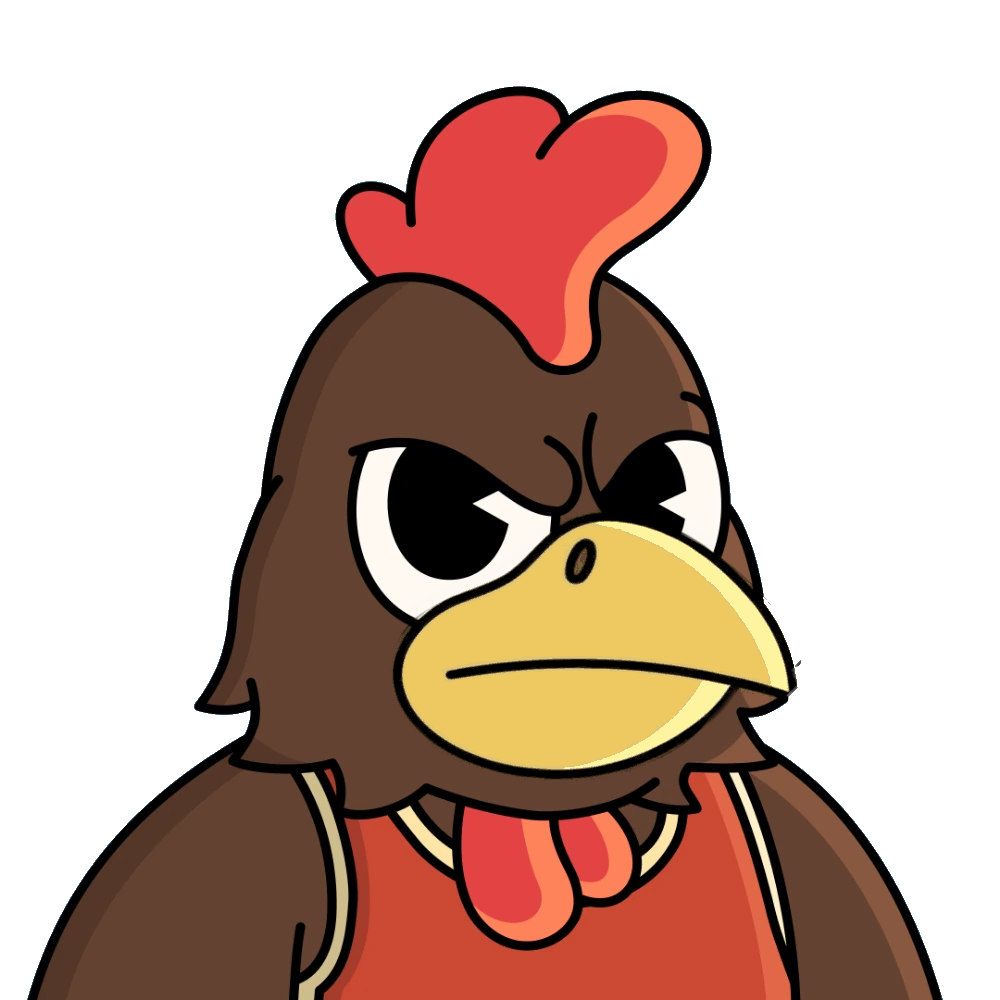
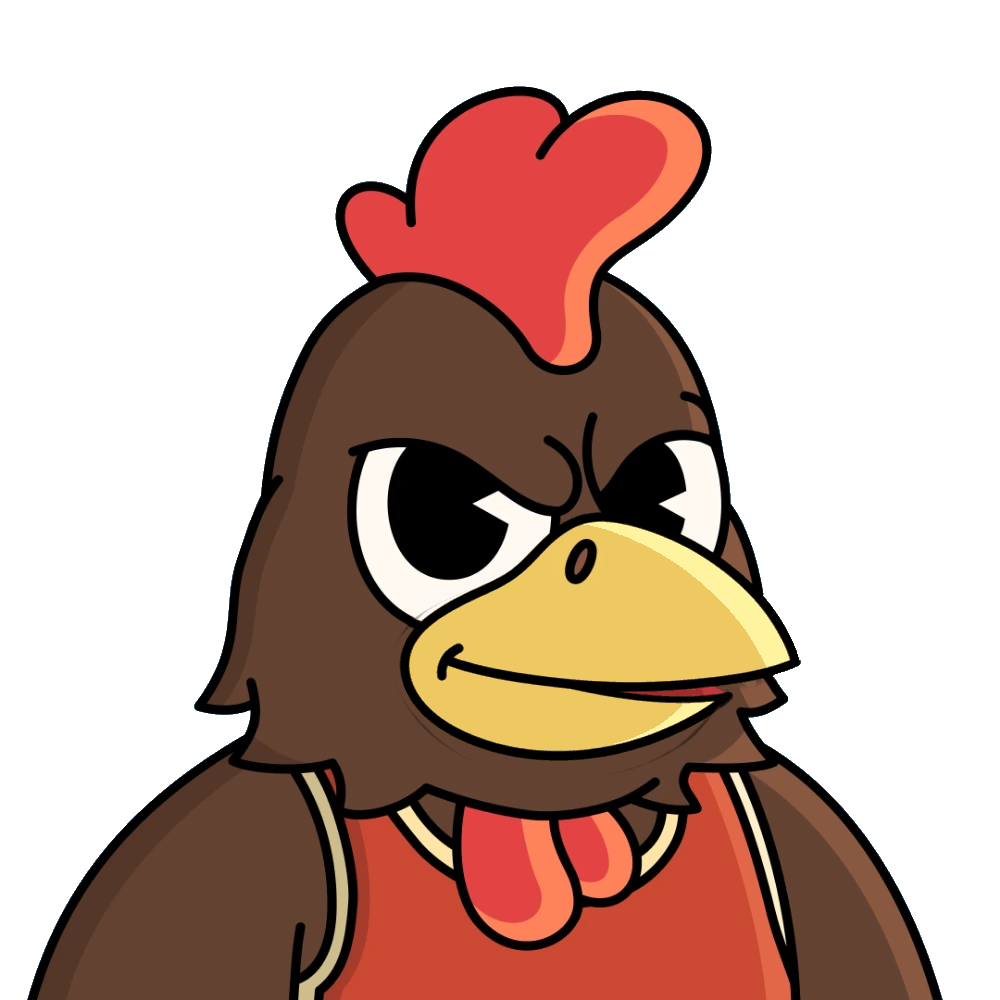
Cock F/V from GEAUX's Gemini edit (nostril kept the kit's own); tools/align_edit.py fits an edit or a sheet's pictures to a kit picture; kit_from_edits handles muzzle mouths (beaver), not used yet
Claude-Session: https://claude.ai/code/session_01AAjfD4JXrwKrGtAMJHTTVa

Changed region(s): [[0.372, 0.496, 0.806, 0.806], [0.496, 0.558, 0.527, 0.589]]

diff --git a/beta/index.html b/beta/index.html
@@ -490,7 +490,7 @@ header .credit b{font-weight:400}
 // ---------------------------------------------------------------------------
 const MP_VERSION = '0.10.14';
 const CODE = document.documentElement.dataset.code || '';   // (the beta copy keeps its own code in beta/; art and data are shared)
-const ART_V = '20261120-2100';   // bump when art changes, so phones never show old cached frames
+const ART_V = '20261120-2140';   // bump when art changes, so phones never show old cached frames
 const MP_MODEL = 'https://storage.googleapis.com/mediapipe-models/face_landmarker/face_landmarker/float16/1/face_landmarker.task';
 
 // Each Nibble: eye layers e0–e4 and ten whole-face mouth frames m0–m9, all lined up at 1000×1000.

diff --git a/index.html b/index.html
@@ -489,7 +489,7 @@ header .credit b{font-weight:400}
 // ---------------------------------------------------------------------------
 const MP_VERSION = '0.10.14';
 const CODE = document.documentElement.dataset.code || '';   // (the beta copy keeps its own code in beta/; art and data are shared)
-const ART_V = '20261120-2100';   // bump when art changes, so phones never show old cached frames
+const ART_V = '20261120-2140';   // bump when art changes, so phones never show old cached frames
 const MP_MODEL = 'https://storage.googleapis.com/mediapipe-models/face_landmarker/face_landmarker/float16/1/face_landmarker.task';
 
 // Each Nibble: eye layers e0–e4 and ten whole-face mouth frames m0–m9, all lined up at 1000×1000.

diff --git a/tools/align_edit.py b/tools/align_edit.py
@@ -1,0 +1,47 @@
+# Line an edited picture (or each picture of a sheet) up with a kit's own picture, for tools/kit_from_edits.py: the
+# image tool may redraw the character a little bigger, smaller or moved, so each one is fitted (scale, turn, shift)
+# to the kit picture over everything except the mouth, then saved at the kit's size on white.
+# Usage: python3 tools/align_edit.py <ref> <picture> <out_prefix> [rows cols]
+#   one picture -> <out_prefix>.png ; a sheet (rows x cols) -> <out_prefix>1.png ... in reading order
+import sys, numpy as np, cv2
+from PIL import Image
+
+ref, pic, out = sys.argv[1], sys.argv[2], sys.argv[3]
+rows, cols = (int(sys.argv[4]), int(sys.argv[5])) if len(sys.argv) > 5 else (1, 1)
+b = Image.open(f'faces/{ref}/base.webp').convert('RGBA'); w = Image.new('RGBA', b.size, (255, 255, 255, 255)); w.alpha_composite(b)
+base = np.array(w.convert('RGB')); N = base.shape[0]
+MOUTH = { '310':(400, 560, 860, 860), '929':(520, 540, 760, 800) }[ref]    # left out of the fit (it's what changed)
+gray = lambda a: cv2.GaussianBlur(cv2.cvtColor(a, cv2.COLOR_RGB2GRAY).astype(np.float32) / 255, (0, 0), 2)
+mask = np.ones((N, N), np.uint8); x0, y0, x1, y1 = MOUTH; mask[y0:y1, x0:x1] = 0
+
+im = np.array(Image.open(pic).convert('RGB'))
+def cells(a):   # split a sheet at its white gaps (else into equal parts)
+    if rows == cols == 1: return [a]
+    H, W = a.shape[:2]; white = a.min(-1) > 235
+    def cuts(prof, n, L):
+        out = []
+        for k in range(1, n):
+            c = int(L * k / n); lo, hi = max(0, c - L // (3 * n)), min(L, c + L // (3 * n))
+            seg = prof[lo:hi]; best = np.where(seg >= seg.max() - 0.002)[0]; out.append(lo + int(best.mean()))
+        return [0] + out + [L]
+    ry, cx = cuts(white.mean(1), rows, H), cuts(white.mean(0), cols, W)
+    return [a[ry[r]:ry[r + 1], cx[c]:cx[c + 1]] for r in range(rows) for c in range(cols)]
+
+for i, c in enumerate(cells(im), 1):
+    h, w_ = c.shape[:2]; s = max(h, w_)
+    sq = np.full((s, s, 3), 255, np.uint8); sq[(s - h) // 2:(s - h) // 2 + h, (s - w_) // 2:(s - w_) // 2 + w_] = c
+    sq = cv2.resize(sq, (N, N), interpolation=cv2.INTER_CUBIC if s < N else cv2.INTER_AREA)
+    # fit: a similarity (scale, small turn, shift), coarse to fine
+    warp = np.eye(2, 3, dtype=np.float32); best = None
+    for sc in np.linspace(0.85, 1.18, 12):     # (a rough start for the scale, then ECC settles it)
+        W0 = np.array([[sc, 0, (1 - sc) * N / 2], [0, sc, (1 - sc) * N / 2]], np.float32)
+        try:
+            cc, W1 = cv2.findTransformECC(gray(base), gray(sq), W0.copy(), cv2.MOTION_AFFINE, (cv2.TERM_CRITERIA_EPS | cv2.TERM_CRITERIA_COUNT, 200, 1e-6), mask, 5)
+        except cv2.error: continue
+        if best is None or cc > best[0]: best = (cc, W1)
+    cc, W1 = best
+    al = cv2.warpAffine(sq, W1, (N, N), flags=cv2.INTER_CUBIC | cv2.WARP_INVERSE_MAP, borderValue=(255, 255, 255))
+    name = f'{out}.png' if rows == cols == 1 else f'{out}{i}.png'
+    Image.fromarray(al).save(name)
+    d = np.abs(gray(base) - gray(al))[mask > 0].mean()
+    print(name, 'fit %.3f' % cc, 'diff outside mouth %.3f' % d, 'scale %.3f' % np.sqrt(abs(np.linalg.det(W1[:, :2]))))

diff --git a/tools/kit_from_edits.py b/tools/kit_from_edits.py
@@ -8,13 +8,25 @@ import sys, numpy as np
 from PIL import Image
 from scipy import ndimage
 
-BOX = { '310':(330, 470, 880, 900) }
+BOX = { '310':(330, 470, 880, 900), '929':(470, 520, 770, 760) }
+# kits with a mouth (not a beak): the area always taken (the old mouth line and teeth), as an ellipse (cx, cy, rx, ry)
+MOUTH_AREA = { '929':(605, 600, 125, 50) }
 ref, out_dir, pairs = sys.argv[1], sys.argv[2], [a.split('=', 1) for a in sys.argv[3:]]
 base = np.array(Image.open(f'faces/{ref}/base.webp').convert('RGBA')).astype(np.float32)
 N = base.shape[0]; x0, y0, x1, y1 = BOX[ref]
 yy, xx = np.mgrid[0:N, 0:N]; inbox = (xx >= x0) & (xx < x1) & (yy >= y0) & (yy < y1)
 
-def mouth_parts(rgb, both=False):   # the beak, and what's inside its outline (mouth, tongue); not the wattle or the shirt
+def mouth_parts(rgb, both=False):
+    if ref in MOUTH_AREA: return lip_parts(rgb, both)
+    return beak_parts(rgb, both)
+def lip_parts(rgb, both=False):   # a mouth under a muzzle: what's drawn in mouth colours (inside, tongue, teeth) in the box
+    r, g, b = rgb[..., 0], rgb[..., 1], rgb[..., 2]
+    inside = (((r > 70) & (g < r * 0.55) & (b < r * 0.75) & (r + g + b < 520)) | ((r > 190) & (g > 80) & (g < 180) & (b > 95) & (b < 200) & (r - g > 45))) & inbox
+    inside = ndimage.binary_opening(inside, iterations=1)
+    cx, cy, rx, ry = MOUTH_AREA[ref]; ell = (((xx - cx) / rx) ** 2 + ((yy - cy) / ry) ** 2 < 1) & inbox
+    m = ell | ndimage.binary_fill_holes(ndimage.binary_closing(inside, iterations=4))
+    return (m, inside) if both else m
+def beak_parts(rgb, both=False):   # the beak, and what's inside its outline (mouth, tongue); not the wattle or the shirt
     from scipy.spatial import ConvexHull
     from PIL import ImageDraw
     r, g, b = rgb[..., 0], rgb[..., 1], rgb[..., 2]
@@ -53,7 +65,11 @@ for k, pic in pairs:
         dark = (g.sum(-1) < 130) & (np.abs(g[..., 0] - g[..., 2]) < 60) & ndimage.binary_erosion(hole, iterations=12)
         g[ndimage.binary_dilation(dark, iterations=2) & ndimage.binary_erosion(hole, iterations=9) & (g.sum(-1) < 200)] = deep
     # the area taken from the edit: the beak before and after, with its outline (a margin), and nothing else
-    zone = ndimage.binary_dilation(was | now, iterations=14) & inbox
+    changed = np.zeros_like(was)
+    if ref in MOUTH_AREA:
+        diff = np.abs(g - base[..., :3]).sum(-1) > 110
+        changed = ndimage.binary_opening(diff & inbox, iterations=5)
+    zone = ndimage.binary_dilation(was | now | changed, iterations=14 if ref not in MOUTH_AREA else 8) & inbox
     a = ndimage.gaussian_filter(zone.astype(np.float32), 2.5)
     a = np.where(ndimage.binary_erosion(zone, iterations=4), 1.0, a)[..., None]
     out = base.copy()
